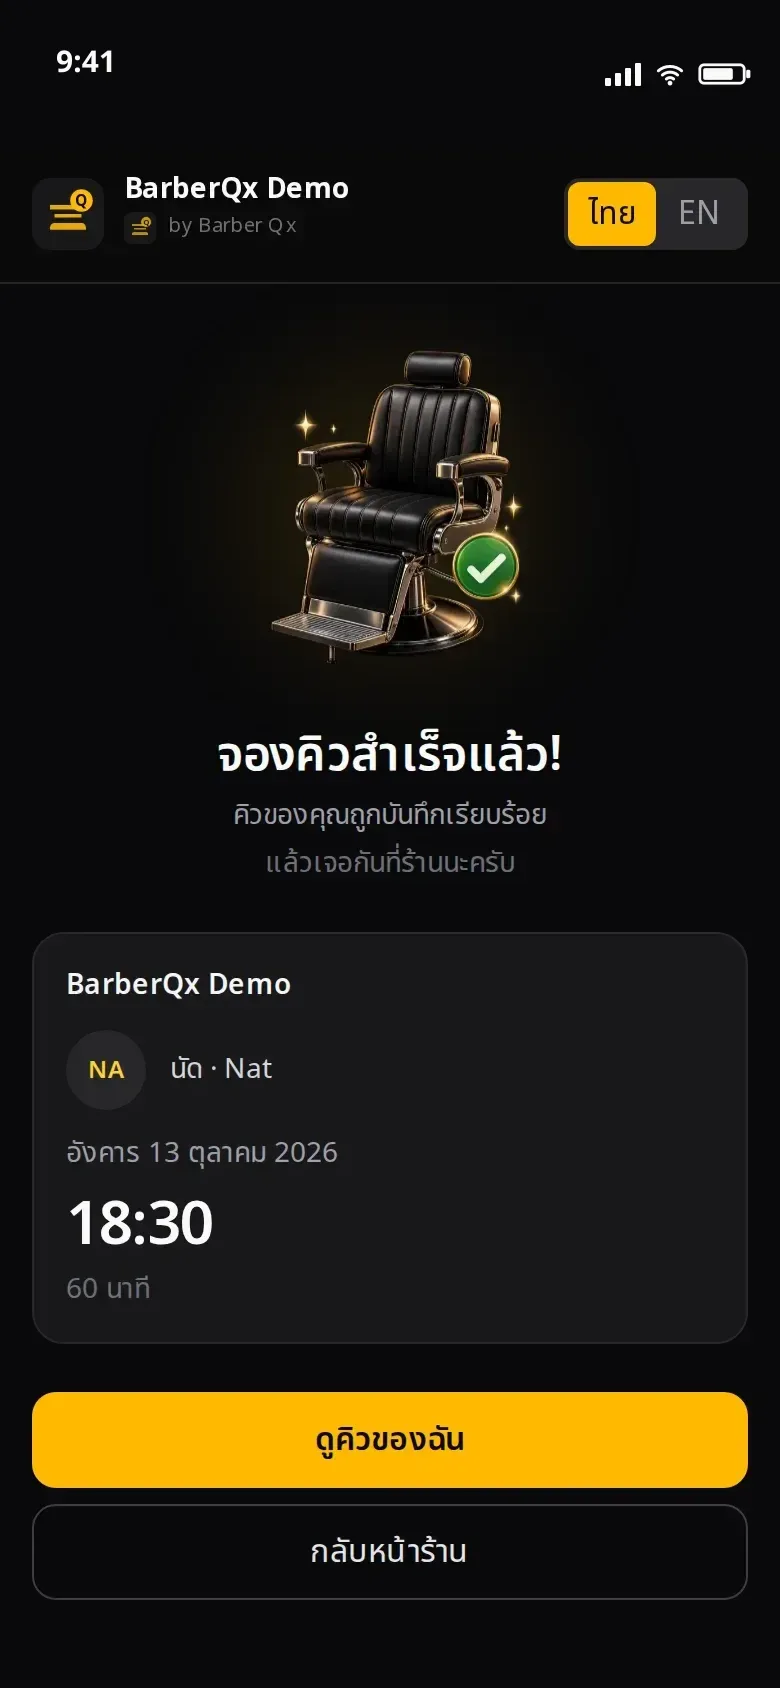
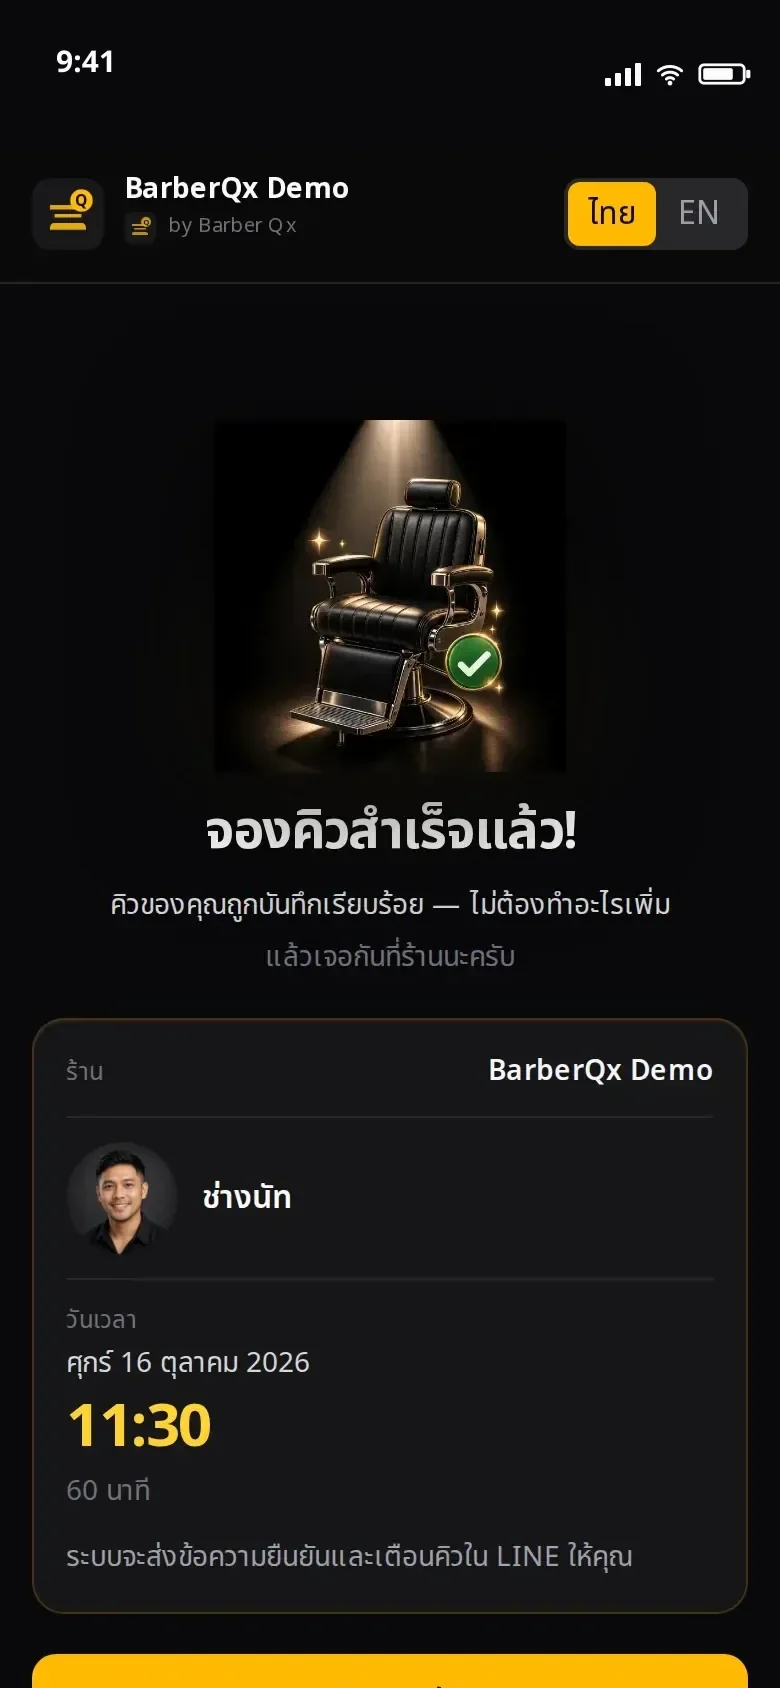
Polish hero booking-success screen and re-composite phone fit
Redesign the live BookingSuccess UI (peak-end spotlight chair, who/when/where,
ช่างนัท photo) and recapture queue-ticket for the sale-page hero. Retune
perspective quads + corner radius so the UI sits flush in the phone bezel.

diff --git a/src/components/customer/BookingSuccess.tsx b/src/components/customer/BookingSuccess.tsx
@@ -14,6 +14,14 @@ import { formatSlotTime, SHOP_TIMEZONE } from "@/lib/services/slot-service";
 import { useShopSlug } from "@/lib/shop/shop-slug-context";
 import type { Appointment, Barber } from "@/types/booking";
 
+function barberDisplayName(raw: string, locale: "th" | "en", labelTemplate: string): string {
+  const name = raw.trim();
+  if (!name) return name;
+  if (locale === "th" && name.startsWith("ช่าง")) return name;
+  if (locale === "en" && /^barber\s+/i.test(name)) return name;
+  return labelTemplate.replace("{name}", name);
+}
+
 export function BookingSuccess({
   appointment,
   barberName,
@@ -40,53 +48,84 @@ export function BookingSuccess({
     { locale: locale === "th" ? th : enUS },
   );
   const photoUrl = barber ? customerBarberPhotoUrl(barber) : null;
+  const whoLabel = barberDisplayName(
+    barber?.name ?? barberName,
+    locale,
+    t("booking.successBarberLabel"),
+  );
+  const reminderKey = reminderDisplayMessageKey(appointment.reminder_lead_minutes);
 
   return (
-    <div className="mx-auto flex w-full max-w-[640px] flex-col gap-6 px-4 py-6">
+    <div className="mx-auto flex w-full max-w-[640px] flex-col gap-5 px-4 py-6">
+      {/* Peak-end success signal — stage spotlight chair (asset includes beam/sparkles/check) */}
       <header className="text-center">
-        <div className="booking-success-chair relative mx-auto w-fit">
+        <div className="booking-success-chair relative mx-auto flex h-[220px] w-full max-w-[280px] items-end justify-center sm:h-[240px]">
+          {/* Soft stage floor glow under the asset spotlight */}
           <div
-            className="pointer-events-none absolute inset-[12%] rounded-full bg-amber-400/15 blur-2xl"
+            className="pointer-events-none absolute bottom-[8%] left-1/2 h-12 w-[62%] -translate-x-1/2 rounded-[100%] bg-amber-300/20 blur-2xl"
             aria-hidden
           />
           <Image
-            src="/images/booking-success-chair.png"
+            src="/images/booking-success-chair.webp"
             alt=""
             width={230}
             height={230}
             priority
-            className="relative mx-auto h-auto w-[180px] object-contain sm:w-[200px] md:w-[220px]"
+            className="relative z-[1] mx-auto h-auto w-[176px] object-contain drop-shadow-[0_14px_32px_rgba(0,0,0,0.6)] sm:w-[196px] md:w-[208px]"
           />
         </div>
-        <h1 className="mt-4 text-2xl font-semibold text-zinc-50">{t("booking.successTitle")}</h1>
-        <p className="mt-1 text-sm text-zinc-400">{t("booking.successSubtitle")}</p>
+
+        <h1 className="mt-3 text-[1.65rem] font-bold leading-snug tracking-tight text-zinc-50 sm:text-2xl">
+          {t("booking.successTitle")}
+        </h1>
+        <p className="mt-2 text-sm leading-relaxed text-zinc-300">{t("booking.successSubtitle")}</p>
         <p className="mt-1 text-sm text-zinc-500">{t("booking.successSeeYou")}</p>
       </header>
 
-      <section className="rounded-2xl border border-zinc-800 bg-zinc-900 p-4">
-        {shopName ? <p className="text-sm font-semibold text-zinc-100">{shopName}</p> : null}
-        <div className="mt-3 flex items-center gap-3">
-          <BarberAvatar name={barber?.name ?? barberName} imageUrl={photoUrl} size="sm" />
-          <p className="text-sm text-zinc-300">{barberName}</p>
-        </div>
-        <p className="mt-3 text-sm text-zinc-400">{dateLabel}</p>
-        <p className="mt-2 text-3xl font-semibold tracking-tight text-zinc-50">
-          {formatSlotTime(appointment.start_time)}
-        </p>
-        {barber ? (
-          <p className="mt-1 text-sm text-zinc-500">
-            {barber.slot_duration_minutes} {t("common.minutes")}
-          </p>
-        ) : null}
-        {(() => {
-          const key = reminderDisplayMessageKey(appointment.reminder_lead_minutes);
-          if (!key) return null;
-          return (
-            <p className="mt-2 text-sm text-amber-200/90">
-              {t("booking.reminderChosen").replace("{lead}", t(key as MessageKey))}
+      {/* Who / when / where at a glance — reduces post-booking anxiety */}
+      <section className="rounded-2xl border border-amber-500/20 bg-zinc-900/90 p-4 shadow-[inset_0_1px_0_rgba(251,191,36,0.08)]">
+        {shopName ? (
+          <div className="flex items-baseline justify-between gap-3">
+            <p className="text-xs font-medium uppercase tracking-wide text-zinc-500">
+              {t("booking.successWhereLabel")}
             </p>
-          );
-        })()}
+            <p className="text-right text-sm font-semibold text-zinc-100">{shopName}</p>
+          </div>
+        ) : null}
+
+        <div className={`${shopName ? "mt-3 border-t border-zinc-800 pt-3" : ""} flex items-center gap-3`}>
+          <BarberAvatar name={barber?.name ?? barberName} imageUrl={photoUrl} size="md" />
+          <div className="min-w-0">
+            {/* Name itself carries the role prefix (e.g. ช่างนัท) — avoid "ช่าง / ช่างนัท" */}
+            <p className="truncate text-base font-semibold text-zinc-50">{whoLabel}</p>
+            {shopName ? null : (
+              <p className="text-xs text-zinc-500">{t("booking.successWhoLabel")}</p>
+            )}
+          </div>
+        </div>
+
+        <div className="mt-3 border-t border-zinc-800 pt-3">
+          <p className="text-xs font-medium uppercase tracking-wide text-zinc-500">
+            {t("booking.successWhenLabel")}
+          </p>
+          <p className="mt-1 text-sm text-zinc-300">{dateLabel}</p>
+          <p className="mt-1 text-3xl font-bold tracking-tight text-amber-300">
+            {formatSlotTime(appointment.start_time)}
+          </p>
+          {barber ? (
+            <p className="mt-1 text-sm text-zinc-500">
+              {barber.slot_duration_minutes} {t("common.minutes")}
+            </p>
+          ) : null}
+        </div>
+
+        {reminderKey ? (
+          <p className="mt-3 rounded-xl border border-amber-500/25 bg-amber-400/5 px-3 py-2 text-sm text-amber-100">
+            {t("booking.reminderChosen").replace("{lead}", t(reminderKey as MessageKey))}
+          </p>
+        ) : (
+          <p className="mt-3 text-sm leading-relaxed text-zinc-400">{t("booking.successNextHint")}</p>
+        )}
       </section>
 
       {showLine ? (
@@ -108,17 +147,18 @@ export function BookingSuccess({
         </section>
       ) : null}
 
+      {/* Single clear next action */}
       <div className="flex flex-col gap-2">
         <Link
           href={shopPath("/bookings")}
-          className="flex min-h-12 items-center justify-center rounded-xl bg-amber-400 font-semibold text-zinc-950 focus-visible:outline focus-visible:outline-2 focus-visible:outline-offset-2 focus-visible:outline-amber-400"
+          className="flex min-h-12 items-center justify-center rounded-xl bg-amber-400 text-base font-bold text-zinc-950 focus-visible:outline focus-visible:outline-2 focus-visible:outline-offset-2 focus-visible:outline-amber-400"
         >
           {t("booking.viewMyBookings")}
         </Link>
         <button
           type="button"
           onClick={onBackToShop}
-          className="min-h-12 rounded-xl border border-zinc-700 text-sm font-medium text-zinc-200 focus-visible:outline focus-visible:outline-2 focus-visible:outline-offset-2 focus-visible:outline-amber-400"
+          className="min-h-11 rounded-xl text-sm font-medium text-zinc-400 underline-offset-4 hover:text-zinc-200 hover:underline focus-visible:outline focus-visible:outline-2 focus-visible:outline-offset-2 focus-visible:outline-amber-400"
         >
           {t("booking.backToShop")}
         </button>

diff --git a/src/lib/i18n/dictionary.ts b/src/lib/i18n/dictionary.ts
@@ -84,8 +84,13 @@ export const dictionary = {
     "booking.reminderLead.0": "ไม่ต้องเตือน",
     "booking.cancelTooLateDetail": "ยกเลิกได้ถึงก่อนเวลานัด {minutes} นาที · นัดนี้เลยกำหนดแล้ว กรุณาติดต่อร้าน",
     "booking.successTitle": "จองคิวสำเร็จแล้ว!",
-    "booking.successSubtitle": "คิวของคุณถูกบันทึกเรียบร้อย",
+    "booking.successSubtitle": "คิวของคุณถูกบันทึกเรียบร้อย — ไม่ต้องทำอะไรเพิ่ม",
     "booking.successSeeYou": "แล้วเจอกันที่ร้านนะครับ",
+    "booking.successBarberLabel": "ช่าง{name}",
+    "booking.successWhenLabel": "วันเวลา",
+    "booking.successWhereLabel": "ร้าน",
+    "booking.successWhoLabel": "ช่าง",
+    "booking.successNextHint": "ระบบจะส่งข้อความยืนยันและเตือนคิวใน LINE ให้คุณ",
     "booking.successReminderTitle": "เพิ่มเพื่อนใน LINE",
     "booking.successReminderBody": "หากต้องการ คุณสามารถเพิ่มเพื่อนผ่านลิงก์นี้ได้ โดยไม่กระทบสถานะการจอง",
     "booking.successAddFriend": "เพิ่มเพื่อนใน LINE",
@@ -1157,8 +1162,13 @@ export const dictionary = {
     "booking.reminderLead.0": "No reminder",
     "booking.cancelTooLateDetail": "Cancel until {minutes} minutes before start · this booking is past that cutoff — contact the shop",
     "booking.successTitle": "Booking confirmed!",
-    "booking.successSubtitle": "Your appointment is saved",
+    "booking.successSubtitle": "Your appointment is saved — nothing else to do",
     "booking.successSeeYou": "See you at the shop",
+    "booking.successBarberLabel": "Barber {name}",
+    "booking.successWhenLabel": "When",
+    "booking.successWhereLabel": "Shop",
+    "booking.successWhoLabel": "Barber",
+    "booking.successNextHint": "We’ll send confirmation and reminders in LINE",
     "booking.successReminderTitle": "Add on LINE",
     "booking.successReminderBody": "If you'd like, you can add this LINE account. This does not affect your booking status.",
     "booking.successAddFriend": "Add on LINE",

diff --git a/src/lib/booking/booking-success-ux.test.ts b/src/lib/booking/booking-success-ux.test.ts
@@ -36,11 +36,15 @@ describe("booking success source", () => {
     );
     const app = readFileSync(resolve(root, "components/customer/BookingApp.tsx"), "utf8");
     const post = readFileSync(resolve(root, "app/api/[shop]/bookings/route.ts"), "utf8");
-    assert.match(success, /\/images\/booking-success-chair\.png/);
+    assert.match(success, /\/images\/booking-success-chair\.webp/);
     assert.match(success, /object-contain/);
     assert.doesNotMatch(success, /object-cover/);
     assert.doesNotMatch(success, /✅/);
     assert.doesNotMatch(success, /CircleCheck/);
+    assert.match(success, /booking\.successBarberLabel/);
+    assert.match(success, /booking-success-chair|stage floor glow|spotlight/i);
+    assert.match(success, /BarberAvatar/);
+    assert.match(success, /successWhoLabel|successWhenLabel|successWhereLabel/);
     assert.doesNotMatch(success, /https:\/\/line\.me/);
     assert.match(success, /NEXT_PUBLIC_LINE_OA_ADD_URL/);
     assert.match(success, /shopPath\("\/bookings"\)/);

diff --git a/src/lib/data/memory-store.ts b/src/lib/data/memory-store.ts
@@ -208,7 +208,9 @@ function inviteToken(): string {
 }
 
 const barbers: Barber[] = BARBER_SEED.map((b, index) => ({
-  ...b,
+  id: b.id,
+  name: b.name,
+  slot_duration_minutes: b.slot_duration_minutes,
   off_days: [...b.off_days],
   created_at: nowIso(),
   shop_id: DEFAULT_SHOP_ID,
@@ -216,6 +218,12 @@ const barbers: Barber[] = BARBER_SEED.map((b, index) => ({
   line_id: index === 0 ? MOCK_OWNER_LINE_ID : null,
   is_bookable: true,
   is_active: true,
+  profile_image_url:
+    "profile_image_url" in b ? (b.profile_image_url as string | null) : null,
+  show_profile_in_booking:
+    "show_profile_in_booking" in b
+      ? Boolean((b as { show_profile_in_booking?: boolean }).show_profile_in_booking)
+      : false,
 }));
 
 function countFutureConfirmedAppointments(barberId: string): number {

diff --git a/src/lib/data/seed.ts b/src/lib/data/seed.ts
@@ -13,8 +13,11 @@ export const BARBER_SEED = [
   },
   {
     id: "33333333-3333-4333-8333-333333333333",
-    name: "Nat",
+    name: "นัท",
     slot_duration_minutes: 60,
     off_days: [4],
+    /** Demo portrait for marketing / memory-mode success screen. */
+    profile_image_url: "/marketing/demo/barber-nat.webp",
+    show_profile_in_booking: true,
   },
 ] as const;

diff --git a/src/types/booking.ts b/src/types/booking.ts
@@ -162,7 +162,7 @@ export interface ApiErrorBody {
 export const BARBER_THAI_NAME: Record<string, string> = {
   Saeb: "แสบ",
   Tide: "ไทด์",
-  Nat: "นัด",
+  Nat: "นัท",
 };
 
 export function barberLabel(name: string, locale: "th" | "en" = "th"): string {

diff --git a/scripts/composite-hero-phone-screens.py b/scripts/composite-hero-phone-screens.py
@@ -24,29 +24,33 @@ PHOTOS = ROOT / "public/marketing/photos"
 SCREEN = ROOT / "public/marketing/screens/queue-ticket.webp"
 
 # Phone screen quads (TL, TR, BR, BL) in full-image pixel coords.
-# Tuned to the AI barbershop hero plates (green chat placeholder → real UI).
+# Tuned to the AI barbershop hero plates — corners sit just under the bezel
+# (slight oversize hides subpixel gaps; rounded mask matches glass radius).
 DESKTOP_QUAD = np.array(
     [
-        [1545, 215],
-        [1905, 145],
-        [2055, 935],
-        [1665, 1010],
+        [1546, 228],
+        [1915, 152],
+        [2060, 948],
+        [1680, 1022],
     ],
     dtype=np.float32,
 )
 
 MOBILE_QUAD = np.array(
     [
-        [365, 495],
-        [735, 485],
-        [755, 1135],
-        [385, 1145],
+        [400, 575],
+        [710, 558],
+        [740, 1175],
+        [426, 1192],
     ],
     dtype=np.float32,
 )
 
+# iPhone-like display corner radius as fraction of the shorter screen side.
+CORNER_RADIUS_FRAC = 0.112
 
-def rounded_rect_mask(h: int, w: int, radius_frac: float = 0.08) -> np.ndarray:
+
+def rounded_rect_mask(h: int, w: int, radius_frac: float = CORNER_RADIUS_FRAC) -> np.ndarray:
     mask = np.zeros((h, w), dtype=np.uint8)
     r = int(min(h, w) * radius_frac)
     cv2.rectangle(mask, (r, 0), (w - r - 1, h - 1), 255, -1)
@@ -76,8 +80,9 @@ def composite(hero_path: Path, quad: np.ndarray, out_path: Path) -> None:
         flags=cv2.INTER_LANCZOS4,
     )
 
-    mask = rounded_rect_mask(sh, sw, 0.08)
-    mask = cv2.GaussianBlur(mask, (0, 0), 1.5)
+    mask = rounded_rect_mask(sh, sw, CORNER_RADIUS_FRAC)
+    # Light feather so the glass edge blends into the bezel (no hard matte line).
+    mask = cv2.GaussianBlur(mask, (0, 0), 0.9)
     warped_mask = cv2.warpPerspective(
         mask,
         matrix,
@@ -90,21 +95,22 @@ def composite(hero_path: Path, quad: np.ndarray, out_path: Path) -> None:
     warm[:, :, 0] *= 0.90  # B
     warm[:, :, 1] *= 0.96  # G
     warm[:, :, 2] *= 1.04  # R
-    warm *= 0.90
+    warm *= 0.91
     warm = np.clip(warm, 0, 255).astype(np.uint8)
 
     alpha = (warped_mask.astype(np.float32) / 255.0)[..., None]
     out = hero.astype(np.float32) * (1.0 - alpha) + warm.astype(np.float32) * alpha
     out = np.clip(out, 0, 255).astype(np.uint8)
 
+    # Soft contact shadow along the screen edge (reads as glass depth).
     edge = cv2.Canny(warped_mask, 40, 120)
     edge = cv2.dilate(edge, np.ones((2, 2), np.uint8), iterations=1)
     edge = cv2.GaussianBlur(edge, (3, 3), 0)
-    e = (edge.astype(np.float32) / 255.0)[..., None] * 0.22
+    e = (edge.astype(np.float32) / 255.0)[..., None] * 0.18
     out = (out.astype(np.float32) * (1.0 - e)).clip(0, 255).astype(np.uint8)
 
     rgb = cv2.cvtColor(out, cv2.COLOR_BGR2RGB)
-    Image.fromarray(rgb).save(out_path, "WEBP", quality=80, method=6)
+    Image.fromarray(rgb).save(out_path, "WEBP", quality=82, method=6)
     print(f"wrote {out_path.relative_to(ROOT)} ({out_path.stat().st_size} bytes)")
 
 
